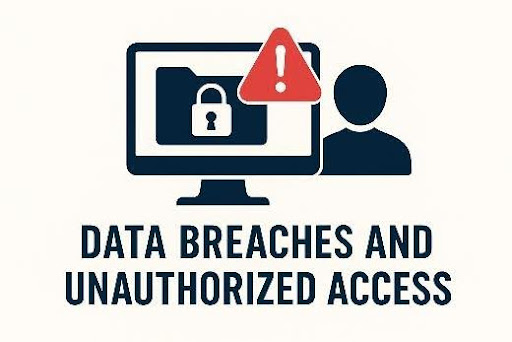
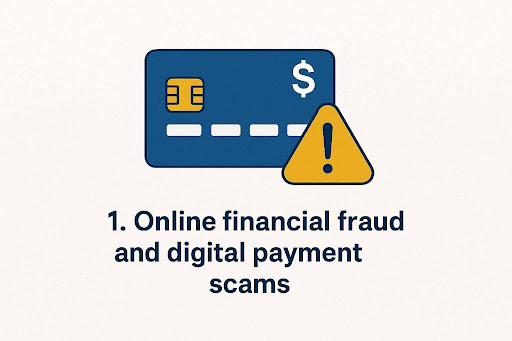
new rivision

diff --git a/public/asset/css/site.css b/public/asset/css/site.css
@@ -1348,12 +1348,12 @@ figcaption.chart_image {
 .cyber-slider-main .swiper-slide {
     background-position: center;
     background-size: cover;
-    width: 250px !important;
-    height: 230px !important;
+    width: 100% !important;
+    height: 100% !important;
     /* border-radius: 15px; */
     overflow: hidden;
     box-shadow: 0 10px 25px rgba(0, 0, 0, 0.15);
-    margin: 0 10px;
+    /* margin: 0 10px; */
 }
 
 .cyber-slider-main .swiper-slide img {
@@ -1375,4 +1375,8 @@ a.usa-button.usa-button--big.register-icon-show img {
 
 a.usa-button.usa-button--big.register-icon-show {
     justify-content: space-between;
+}
+
+.usa-media-block__body p img {
+    width: 15px;
 }

diff --git a/resources/views/front/header.blade.php b/resources/views/front/header.blade.php
@@ -25,7 +25,7 @@
                         role="img" alt="" aria-hidden="true">
                     <div class="usa-media-block__body">
                         <p>
-                            <strong>Official websites use .gov</strong><br>
+                            🔒
                             A <strong>.org.in</strong> website belongs to an official organisation in Government
                             of India
                         </p>
@@ -36,7 +36,8 @@
                         role="img" alt="" aria-hidden="true">
                     <div class="usa-media-block__body">
                         <p>
-                            <strong>Secure .gov websites use HTTPS</strong><br>
+                            <strong>Secure .org.in
+                                websites use HTTPS</strong><br>
                             A <strong>lock</strong> (
                             <span class="icon-lock">
                                 <svg xmlns="http://www.w3.org/2000/svg" width="52" height="64"
@@ -47,7 +48,8 @@
                                     <path fill="#000000" fill-rule="evenodd"
                                         d="M26 0c10.493 0 19 8.507 19 19v9h3a4 4 0 0 1 4 4v28a4 4 0 0 1-4 4H4a4 4 0 0 1-4-4V32a4 4 0 0 1 4-4h3v-9C7 8.507 15.507 0 26 0zm0 8c-5.979 0-10.843 4.77-10.996 10.712L15 19v9h22v-9c0-6.075-4.925-11-11-11z" />
                                 </svg>
-                            </span>) or <strong>https://</strong> means you’ve safely connected to the .gov website.
+                            </span>) or <strong>https://</strong> means you’ve safely connected to the .org.in
+                            website.
                             Share sensitive information only on official, secure websites.
                         </p>
                     </div>

diff --git a/resources/views/welcome.blade.php b/resources/views/welcome.blade.php
@@ -74,13 +74,10 @@
                             <img src="{{ asset('asset/image/slider-3.png') }}" />
                         </div>
                         <div class="swiper-slide">
-                            <img src="{{ asset('asset/image/slider-1.png') }}" />
+                            <img src="{{ asset('asset/image/slider-4.png') }}" />
                         </div>
                         <div class="swiper-slide">
-                            <img src="{{ asset('asset/image/slider-2.png') }}" />
-                        </div>
-                        <div class="swiper-slide">
-                            <img src="{{ asset('asset/image/slider-3.png') }}" />
+                            <img src="{{ asset('asset/image/slider-5.png') }}" />
                         </div>
                     </div>
                 </div>

diff --git a/resources/views/front/app.blade.php b/resources/views/front/app.blade.php
@@ -84,7 +84,7 @@
             grabCursor: true,
             centeredSlides: false,
             dots: false,
-            slidesPerView: 5,
+            slidesPerView: 1,
             loop: true,
             coverflowEffect: {
                 rotate: 0,
